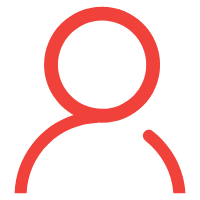
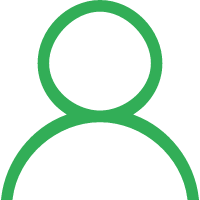
色值修改

Changed region(s): [[0.0, 0.0, 1.0, 1.0]]

diff --git a/src/pages/personal.vue b/src/pages/personal.vue
@@ -1,6 +1,6 @@
 <template>
   <div>
-    <section class="bgcolor-red color-white font-size12" style="height: 30vh">
+    <section class="bgcolor-green color-white font-size12" style="height: 30vh">
         <div v-if="isLogin" class="height100 flex-column flex-align-justify">
             <open-data type="userAvatarUrl" class="user-avatar"></open-data>
             <open-data type="userNickName" class="margin-top20"></open-data>
@@ -15,12 +15,21 @@
             <button open-type="getUserInfo" @getuserinfo="theGetUserInfo" class="width100 border-radius8 color-white" style="background-color: #32AE57">微信快捷登录</button>
         </div>
     </section>
+    <section v-else>
+        <div v-for="(item,index) in userdata" :key="index" class="myperson">
+            <ul class=" font-size10 margin-bottom35 margin-left20" ><li>{{item}}<img class="icon" src="../../static/img/plant.png"></li></ul></div>
+    </section>
   </div>
 </template>
 
 <script>
 import { getUserInfo } from '@/utils/business'
 export default {
+    data(){
+        return{
+            userdata:["我的收藏","搜索排行","联系我们"]
+        }
+    },
     computed: {
         isLogin() {
             return this.$store.getters.isLogin
@@ -48,5 +57,16 @@ export default {
     border-radius: 50%;
     font-size: 160rpx;
     border: 2rpx solid #fff;
+}
+.myperson{
+    border-bottom:1rpx solid grey;
+    opacity: 0.2;
+    height:80rpx;
+    line-height: 80rpx;
+}
+.icon{
+    height:40rpx;
+    width:40rpx;
+    margin-left:20rpx;
 }
 </style>

diff --git a/src/pages/home.vue b/src/pages/home.vue
@@ -11,7 +11,7 @@
             <p :class="['headerTab', {'cur': headerTab===2}]" @tap="switchTab(2)">待映</p>
           </div>
           <a class="height100 padding-left20 padding-right30 border-left1 flex-align-justify" @tap="$router.push('search')">
-            <i class="icon-search font-size8 bold color-red"></i>
+            <i class="icon-search font-size8 bold color-blue"></i>
           </a>
         </header>
         <film-list :mainList="mainList" :nodata="nodata"></film-list>
@@ -50,7 +50,7 @@ export default {
 }
 </script>
 <style lang="scss" scoped>
-$color-red: #f0423b;
+$color-blue: #55b1e8;
 .home {
   .headerTab {
     margin: 0 20rpx;
@@ -59,8 +59,8 @@ $color-red: #f0423b;
     color: #999;
     border-bottom: 2rpx solid transparent;
     &.cur {
-      color: $color-red;
-      border-color: $color-red;
+      color: $color-blue;
+      border-color: $color-blue;
     }
   }
 }

diff --git a/src/router/router.js b/src/router/router.js
@@ -3,19 +3,15 @@ module.exports = [{
   path: 'pages/home',
   name: 'home',
   config: {
-    navigationBarTitleText: '猫眼电影'
+    navigationBarTitleText: '植物识别'
     // 引入UI组件，后面会讲到
     // usingComponents: {
     //   'zan-button': '../dist/btn/index'
     // }
   }
-}, {
-  path: 'pages/cinema',
-  name: 'cinema',
-  config: {
-    navigationBarTitleText: '影院'
-  }
-}, {
+},
+
+ {
   path: 'pages/personal',
   name: 'personal',
   config: {

diff --git a/src/components/search.vue b/src/components/search.vue
@@ -87,7 +87,7 @@ export default {
   .operateBtn {
     width: 15%;
     text-align: center;
-    color: #f0423b;
+    color: #55b1e8;
   }
 }
 </style>

diff --git a/README.md b/README.md
@@ -1,2 +1,1 @@
-### 1. 简介
 mpvue + 云开发demo<br>
